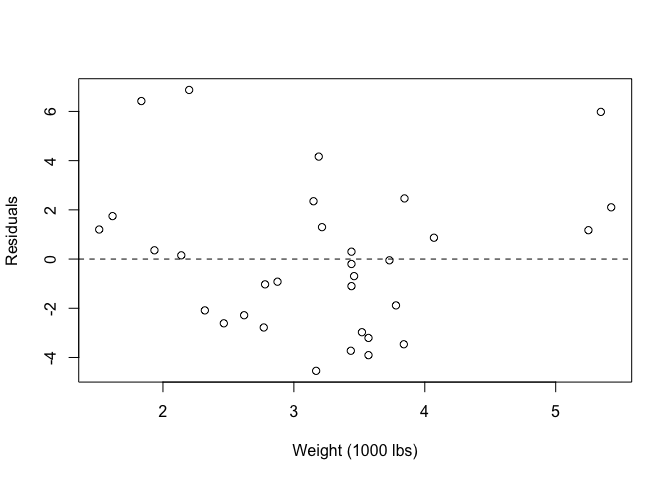
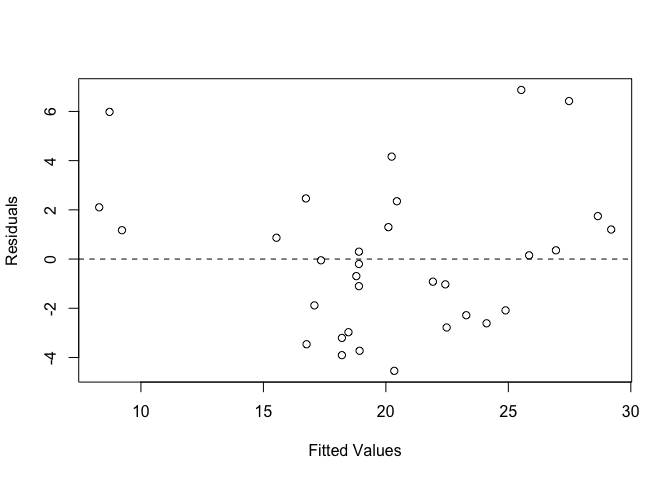
expanding examples and vignette

diff --git a/README.md b/README.md
@@ -15,7 +15,9 @@ The `lrmodel` package was designed to re-implement the base R functions
 `lm()` and `summary()` for linear regression model objects. The package
 contains two core functions functions: `lrmodel()` generate results from
 a linear regression model, and `lrmodel_summary()` produces a formatted
-summary of the results.
+summary of the results. Custom S3 classes and print methods are used to
+mimic the behavior of the base R functions, which return both list
+objects and printed summaries of the model results.
 
 ## Installation
 
@@ -37,12 +39,6 @@ library(lrmodel)
 
 # Fitting a simple linear regression model
 model <- lrmodel(mpg ~ wt, data = mtcars)
-#> Call:
-#> lrmodel(formula = mpg ~ wt, data = mtcars)
-#> 
-#> Coefficients:
-#> (Intercept)          wt 
-#>   37.285126   -5.344472
 model$coefficients
 #> (Intercept)          wt 
 #>   37.285126   -5.344472
@@ -67,34 +63,59 @@ lrmodel_summary(model)
 #> -4.5431513 -2.3647089 -0.1251956  1.4095613  6.8727113 
 #> 
 #> Coefficients:
-#>              Estimate Std. Error   t value     Pr(>|t|)
-#> (Intercept) 37.285126   1.877627 19.857575 8.241799e-19
-#> wt          -5.344472   0.559101 -9.559044 1.293959e-10
+#>              Estimate Std. Error   t value     Pr(>|t|)    
+#> (Intercept) 37.285126   1.877627 19.857575 8.241799e-19 ***
+#> wt          -5.344472   0.559101 -9.559044 1.293959e-10 ***
+#> ---
+#> Signif. codes: 0 '***', 0.001 '**' 0.01 '*' 0.05 '.' 0.1 ' ' 1
 #> 
 #> Residual standard error: 3.045882 on 30 degrees of freedom
-#> (0 observations deleted due to missingness)
-#> Multiple R-squared: 0.7528328 ,  Adjusted R-squared: 0.7445939 
+#> Multiple R-squared: 0.7528328 , Adjusted R-squared: 0.7445939 
 #> F-statistic: 91.37533 on 1 and 30 DF, p-value: 1.293959e-10
+
+lrmodel_summary(model)$cov.unscaled
+#>             (Intercept)          wt
+#> (Intercept)   0.3800079 -0.10840248
+#> wt           -0.1084025  0.03369414
+
+lrmodel_summary(model)$r.squared
+#> [1] 0.7528328
+
+lrmodel_summary(model)$fstatistic
+#>    value    numdf    dendf 
+#> 91.37533  1.00000 30.00000
 ```
 
 ``` r
 # Plotting the fitted values
 plot(
-  x = mtcars$mpg, y = model$fitted.values,
-  xlab = "Miles per Gallon (mtcars)",
-  ylab = "Miles per Gallon (lrmodel)"
+  x = model$model$wt, y = model$fitted.values,
+  xlab = "Weight (1000 lbs)",
+  ylab = "Fitted Values"
   )
-abline(a = 0, b = 1, col = "red")
 ```
 
 <img src="man/figures/README-fitted.vals-1.png" style="width:100.0%" />
 
 ``` r
+# Plotting the regression line
+plot(
+  x = mtcars$wt, y = mtcars$mpg,
+  xlab = "Weight (1000 lbs)",
+  ylab = "Miles per Gallon"
+  )
+abline(a = model$coefficients["(Intercept)"], b = model$coefficients["wt"], col = "red")
+```
+
+<img src="man/figures/README-regression.line-1.png"
+style="width:100.0%" />
+
+``` r
 # Plotting the residuals
 plot(
-  x = mtcars$wt,
+  x = model$fitted.values,
   y = model$residuals,
-  xlab = "Weight (1000 lbs)",
+  xlab = "Fitted Values",
   ylab = "Residuals"
 )
 abline(a = 0, b = 0, lty = 2)
